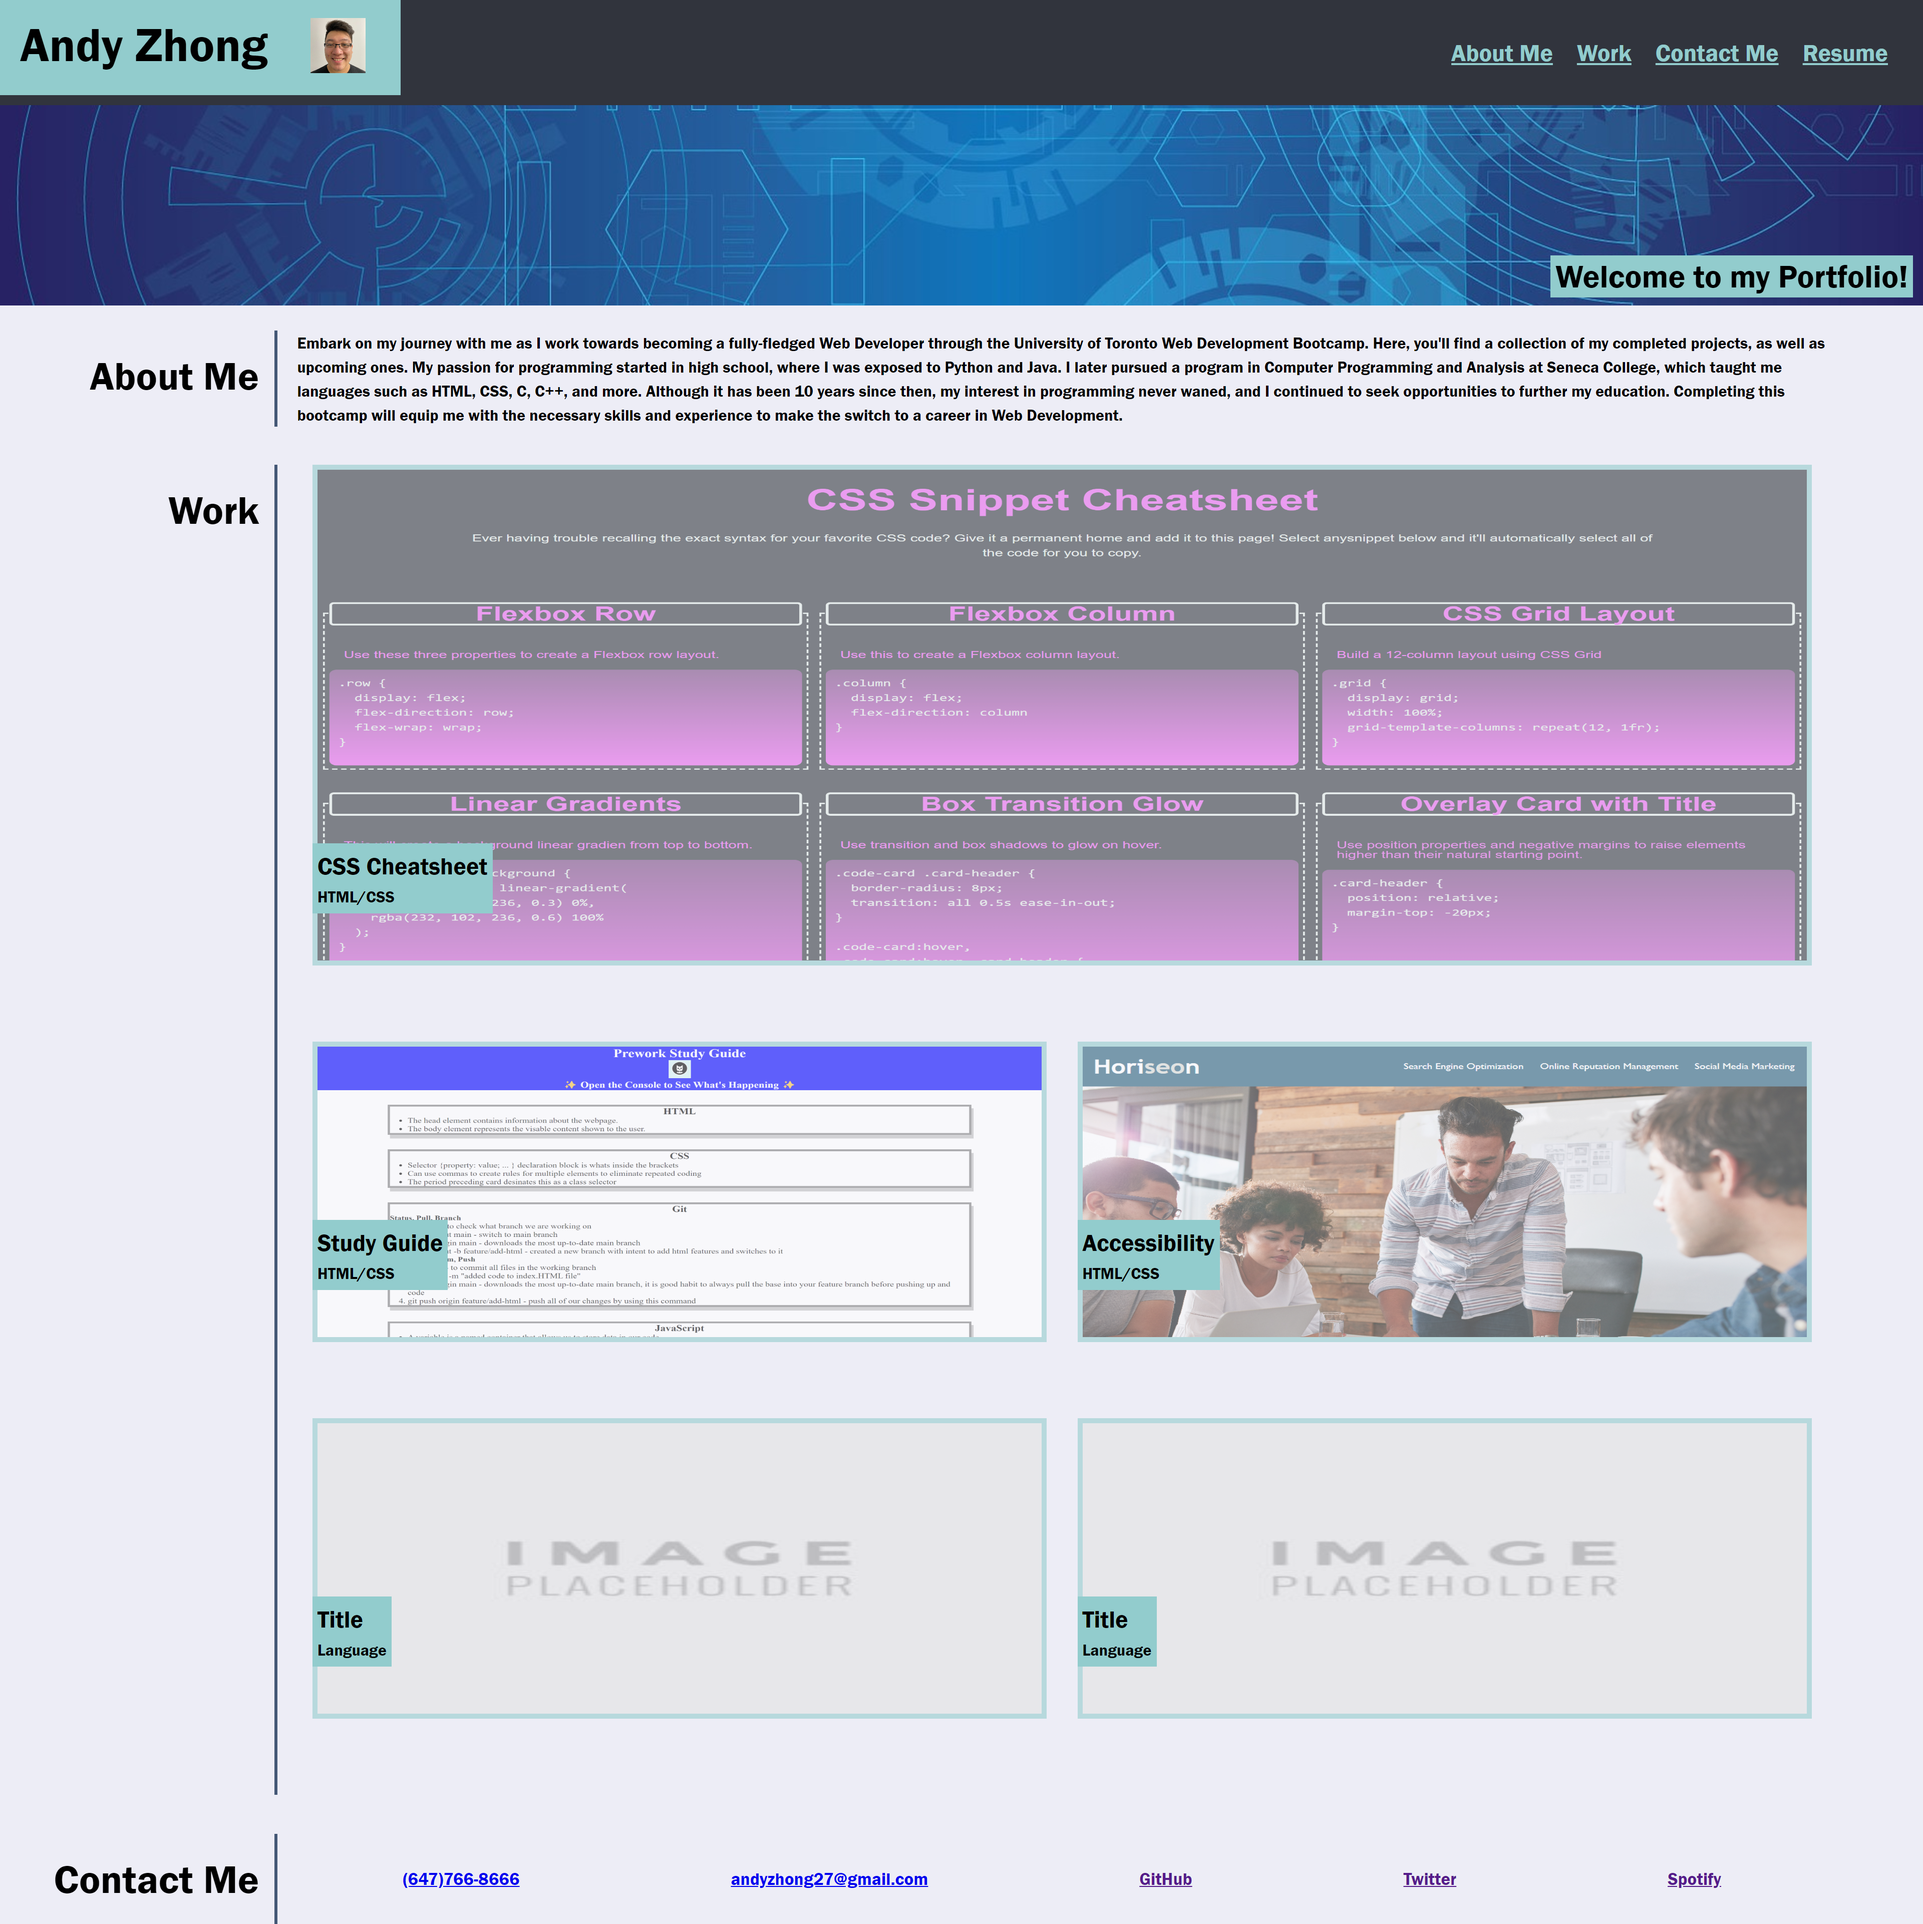
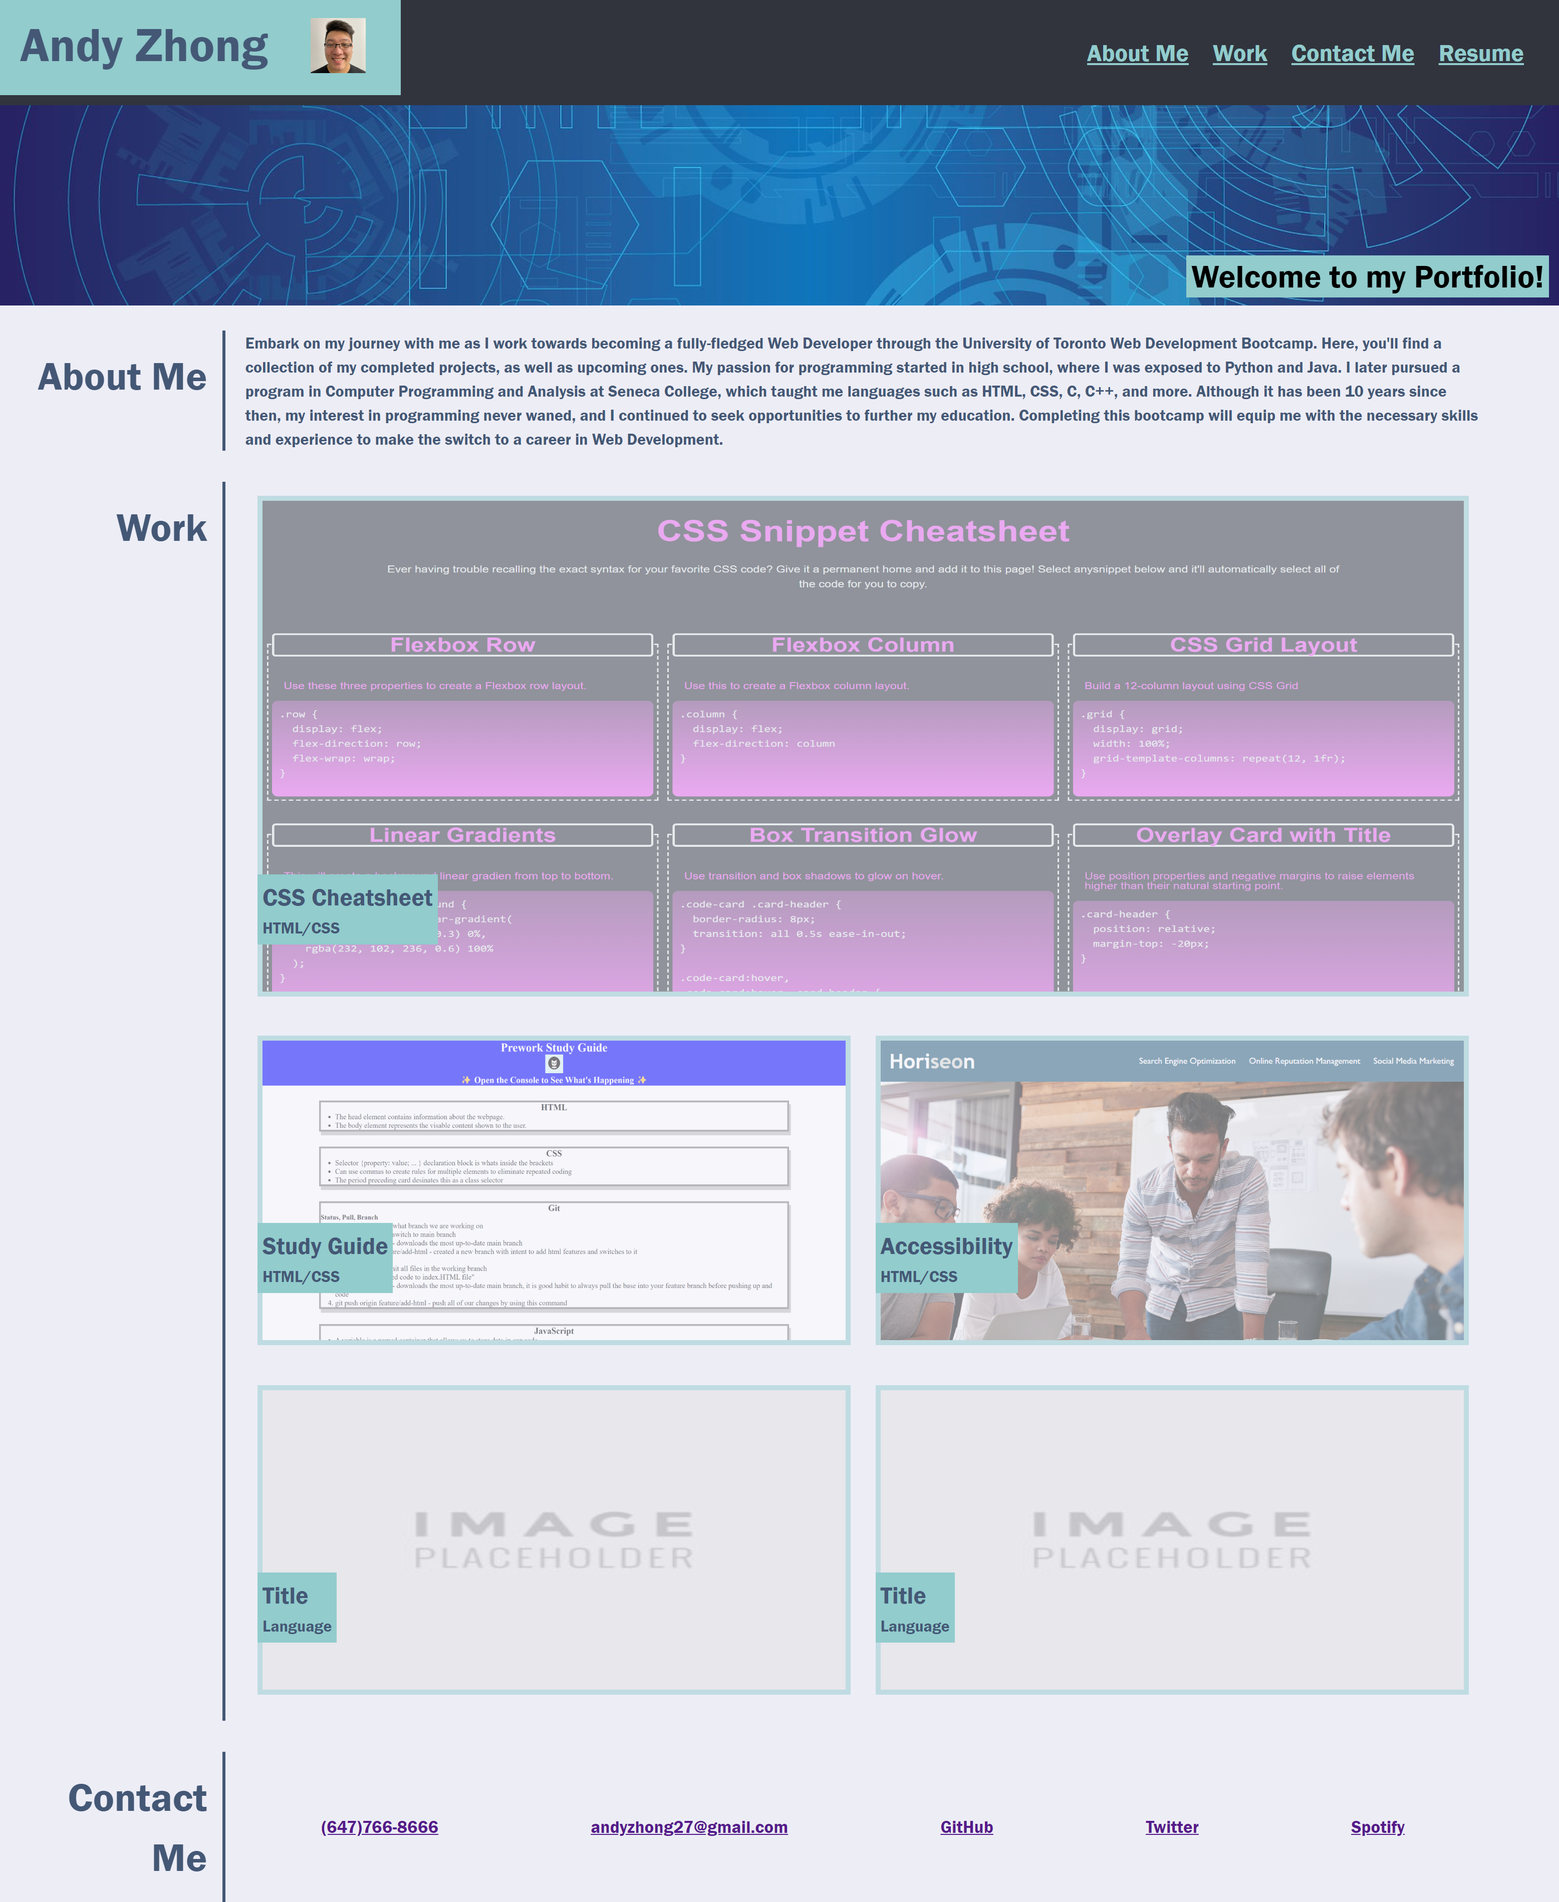
made css dry and update screenshots for readme

diff --git a/assets/style.css b/assets/style.css
@@ -13,14 +13,56 @@
 }
 
 body,
-html {
+html,
+.image-container img {
   height: 100%;
   width: 100%;
 }
-body {
+/* 100% width */
+header,
+.hero,
+main {
+  width: 100%;
+}
+/* 100% height */
+.avatar,
+.navigation,
+.image-container {
+  height: 100%;
+}
+/* display flex */
+body,
+main,
+header,
+.navigation,
+.content,
+.content ul,
+.image-container {
   display: flex;
+}
+/* align-items center */
+.navigation,
+.content > :nth-child(2) {
+  align-items: center;
+}
+
+/* position relative */
+.my-info,
+.avatar,
+.hero,
+.subtitle,
+.image-container figure,
+.image-subtitle {
+  position: relative;
+}
+
+/* inline-block */
+.navigation li,
+.image-subtitle {
+  display: inline-block;
+}
+body {
   flex-flow: row wrap;
-  align-content: space-between;
   background-color: var(--light-background);
 }
 h1 {
@@ -40,17 +82,13 @@ h4 {
 }
 
 main {
-  width: 100%;
-  display: flex;
   flex-flow: column wrap;
   justify-self: center;
 }
 
 /* Beginning of the header selectors */
 header {
-  width: 100%;
   height: 100px;
-  display: flex;
   justify-content: space-between;
   align-items: center;
   background-color: var(--dark-grey);
@@ -63,33 +101,24 @@ header h1,
   color: var(--blue);
 }
 
-/* relative position, parent of avatar */
 .my-info {
   height: 90%;
   min-width: 400px;
   align-self: flex-start;
-  position: relative;
   padding: 20px 40px 20px 20px;
   background-color: var(--baby-blue);
 }
-/* relative positioning for the avatar child of my-info class */
+
 .avatar {
-  position: relative;
-  height: 100%;
   width: auto;
   top: -50px;
   left: 290px;
 }
 .navigation {
   margin-right: 20px;
-  height: 100%;
-  display: flex;
-  align-items: center;
 }
 
-/* inline block so that the list is side by side */
 .navigation li {
-  display: inline-block;
   margin-right: 10px;
 }
 
@@ -102,30 +131,24 @@ header h1,
 
 /* Background image */
 .hero {
-  width: 100%;
   height: 200px;
   margin-bottom: 25px;
   background-image: url("./stock-image.jpg");
   background-size: cover;
   background-position: center;
-  /* position relative so that subtite can be positioned relative to parent class */
-  position: relative;
 }
-/* relative position, child of hero */
+
 .subtitle {
-  position: relative;
   float: right;
   background-color: var(--baby-blue);
   top: 75%;
   padding: 5px;
   margin: 0px 10px 10px 0px;
 }
-/* Beginning of the content, about us, work and contact us */
+
 .content {
   width: 95%;
-  display: flex;
   margin-bottom: 2%;
-  justify-content: space-between;
   line-height: 1.5;
 }
 
@@ -140,56 +163,41 @@ header h1,
   border-left: var(--blue) solid;
   padding-left: 20px;
   justify-content: space-around;
-  align-items: center;
-}
-
-.content ul {
-  display: flex;
-  justify-content: space-around;
 }
 
 .image-container {
-  display: flex;
   flex-flow: row wrap;
-  height: 100%;
 }
-/* relative position so that child can position relative to parent */
+
 .image-container figure {
   width: 48%;
-  margin: 0 1% 0 1%;
-  position: relative;
+  height: 25%;
+  margin-bottom: 1%;
+  max-height: 350px;
 }
-/* child of image-container figure, so that the subtitles for the images can be relative */
+
+#first-image {
+  height: 50%;
+  width: 98%;
+  max-height: 500px;
+}
+
 .image-subtitle {
-  position: relative;
   left: 0%;
   bottom: 8em;
   background-color: var(--baby-blue);
-  display: inline-block;
   padding: 5px;
   max-width: 180px;
 }
 
 .image-container img {
-  width: 100%;
-  height: 300px;
   border: var(--baby-blue) solid 5px;
-  opacity: 0.6;
+  opacity: 0.5;
 }
 
 .image-container img:hover {
   opacity: 1;
 }
-
-/* to make the first image larger than the rest */
-.first-image {
-  width: 100% !important;
-}
-/* to make the first image larger than the rest */
-.first-image img {
-  height: 500px !important;
-}
-
 /* End of the content section, about us, work and contacts */
 
 /* footer */
@@ -200,6 +208,12 @@ footer ul li a {
 
 /* Tablet display */
 @media screen and (max-width: 996px) {
+  .my-info,
+  .navigation {
+    width: 100%;
+    height: 50%;
+  }
+
   /* changes the header into column so that it fits tablet viewport */
   header {
     height: 212px;
@@ -207,8 +221,6 @@ footer ul li a {
     justify-content: flex-start;
   }
   .my-info {
-    width: 100%;
-    height: 50%;
     min-width: 0;
     text-align: center;
   }
@@ -219,8 +231,6 @@ footer ul li a {
   }
 
   .navigation {
-    height: 50%;
-    width: 100%;
     margin: 0;
     justify-content: center;
   }
@@ -228,6 +238,21 @@ footer ul li a {
 
 /* Mobile display */
 @media screen and (max-width: 768px) {
+  /* 100% width */
+  .my-info,
+  .content,
+  .content h2,
+  .content ul li,
+  .image-container figure,
+  #first-image {
+    width: 100%;
+  }
+
+  .image-container figure,
+  #first-image {
+    height: 20%;
+    max-height: 300px;
+  }
   /* changes header so that it fits mobile viewport */
   header {
     display: flex;
@@ -238,28 +263,21 @@ footer ul li a {
   }
 
   .my-info {
-    width: 100%;
     height: 40%;
-    position: relative;
     text-align: center;
     align-self: flex-start;
   }
 
   .avatar {
-    position: relative;
-    height: 100%;
-    width: auto;
     left: 185px;
     top: -55px;
   }
-  /* rearrange list so that it's top down instead of side by side */
+  /* rearrange list so that it's top down instead of side by side by increasing the height*/
   .navigation {
     margin: 0;
     height: 60%;
-    display: flex;
-    align-items: center;
   }
-  /* rearrange list so that it's top down instead of side by side */
+  /* rearrange list so that it's top down instead of side by side with display block */
   .navigation li {
     text-align: center;
     padding-bottom: 5px;
@@ -270,11 +288,9 @@ footer ul li a {
   .content {
     flex-direction: column;
     align-items: center;
-    width: 100%;
   }
 
   .content h2 {
-    width: 100%;
     text-align: center;
   }
   .content > :nth-child(2) {
@@ -285,23 +301,16 @@ footer ul li a {
   }
 
   .content ul {
-    flex-wrap: wrap;
-    justify-content: space-around;
-    align-items: center;
+    display: block;
   }
 
   .content ul li {
-    width: 100%;
     height: 30px;
     text-align: center;
   }
 
-  /* makes all images in work section top down */
-  .image-container figure {
-    width: 100%;
-  }
-  /* makes all images in work section same size */
-  .image-container img {
-    height: 500px;
+  .image-container {
+    flex-direction: column;
+    flex-wrap: nowrap;
   }
 }

diff --git a/index.html b/index.html
@@ -55,7 +55,7 @@
         <h2>Work</h2>
         <!-- container for images for portfolio -->
         <div class="image-container">
-          <figure class="first-image">
+          <figure id="first-image">
             <a href="https://timebytes.github.io/CSS-Cheatsheet-Project/" target="black"><img src="./assets/Screenshot_CSS_Cheatsheet.png" alt="screenshot of CSS Snippet Cheat Sheet webpage"/></a>
             <div class="image-subtitle">
               <h4>CSS Cheatsheet</h4>
@@ -78,14 +78,14 @@
           </figure>
           <!-- place holder image slots for when more projects are completed -->
           <figure>
-            <a href="#" target="black"><img src="./assets/image-placeholder-500x500-300x300.jpg" alt="place holder image" /></a>
+            <a href="#"><img src="./assets/image-placeholder-500x500-300x300.jpg" alt="place holder image" /></a>
             <div class="image-subtitle">
               <h4>Title</h4>
               <p>Language</p>
             </div>
           </figure>
           <figure>
-            <a href="#" target="black" ><img src="./assets/image-placeholder-500x500-300x300.jpg" alt="place holder image" /></a>
+            <a href="#"><img src="./assets/image-placeholder-500x500-300x300.jpg" alt="place holder image" /></a>
             <div class="image-subtitle">
               <h4>Title</h4>
               <p>Language</p>
@@ -100,8 +100,8 @@
     <footer id="contact-me" class="content">
       <h2>Contact Me</h2>
       <ul>
-        <li><a href="#" target="black">(647)766-8666</a></li>
-        <li><a href="#" target="black">andyzhong27@gmail.com</a></li>
+        <li><a href="#">(647)766-8666</a></li>
+        <li><a href="#">andyzhong27@gmail.com</a></li>
         <li><a href="https://github.com/TimeBytes" target="black">GitHub</a></li>
         <li><a href="https://twitter.com/TimeBytes" target="black">Twitter</a></li>
         <li><a href="https://open.spotify.com/user/gnxocajkvyj9rttlxpbit96gb" target="black">Spotify</a></li>
